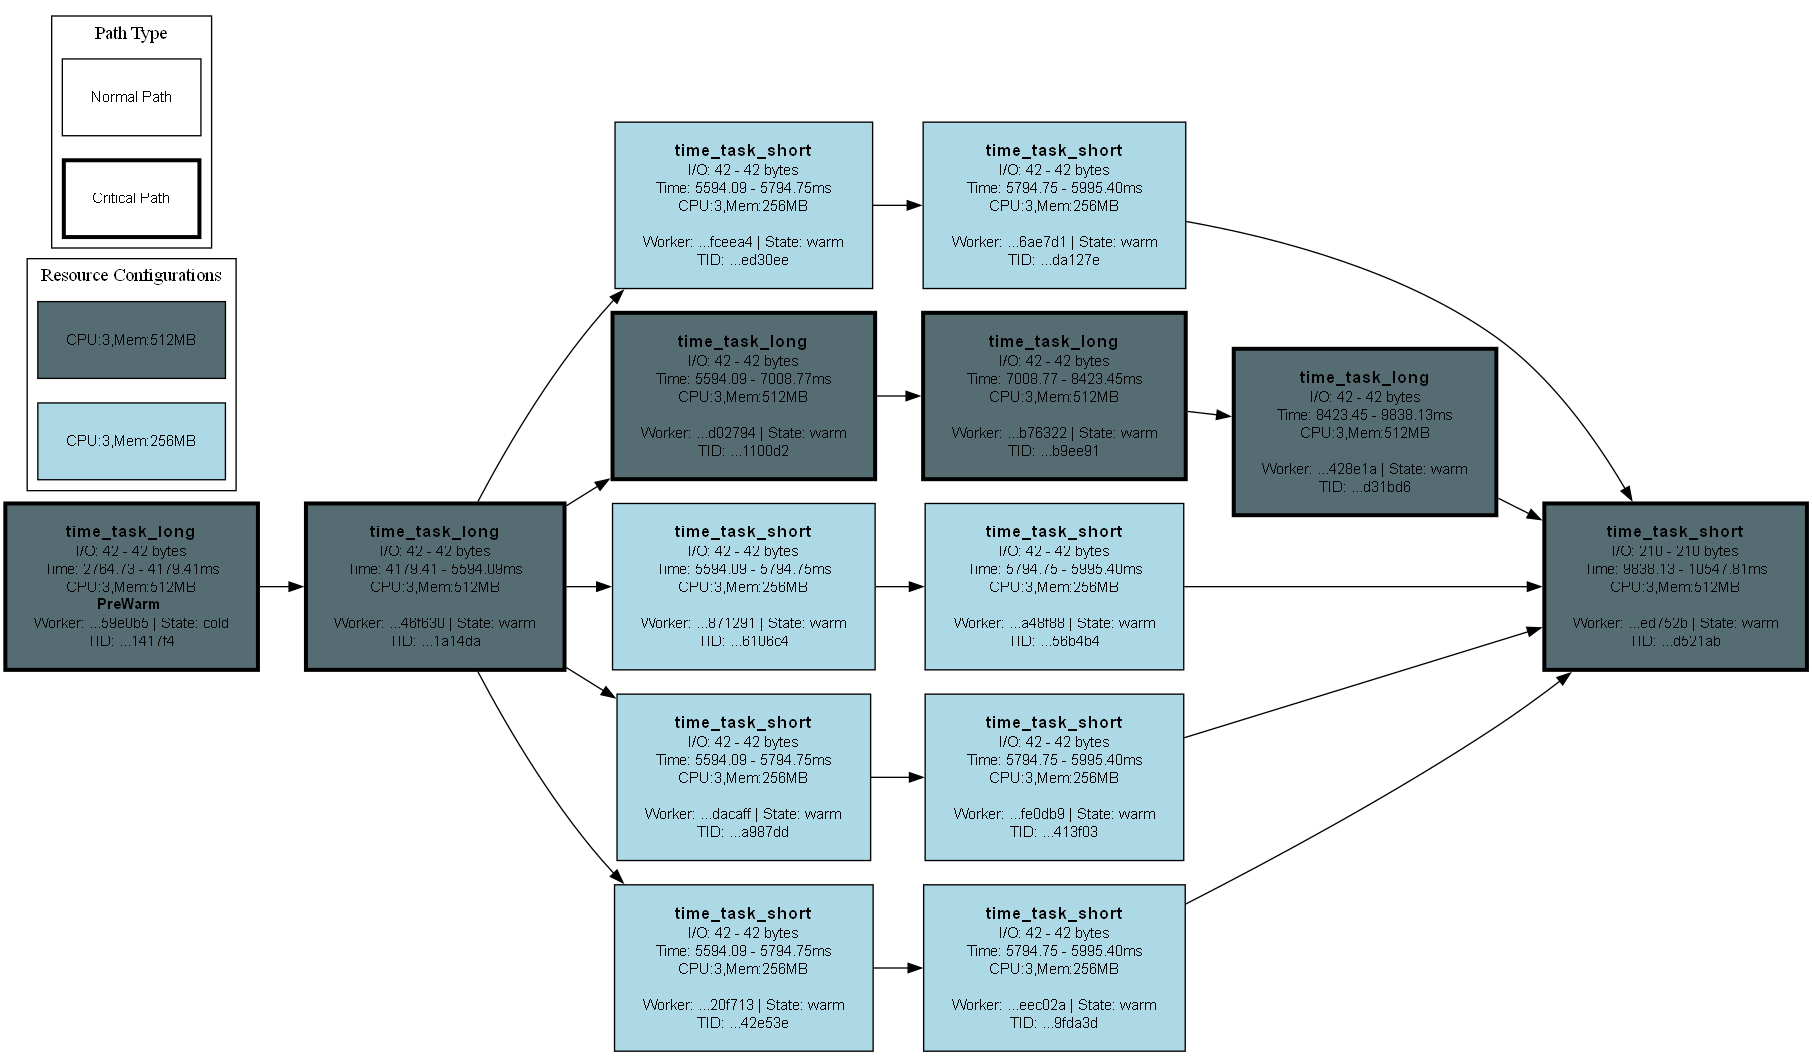
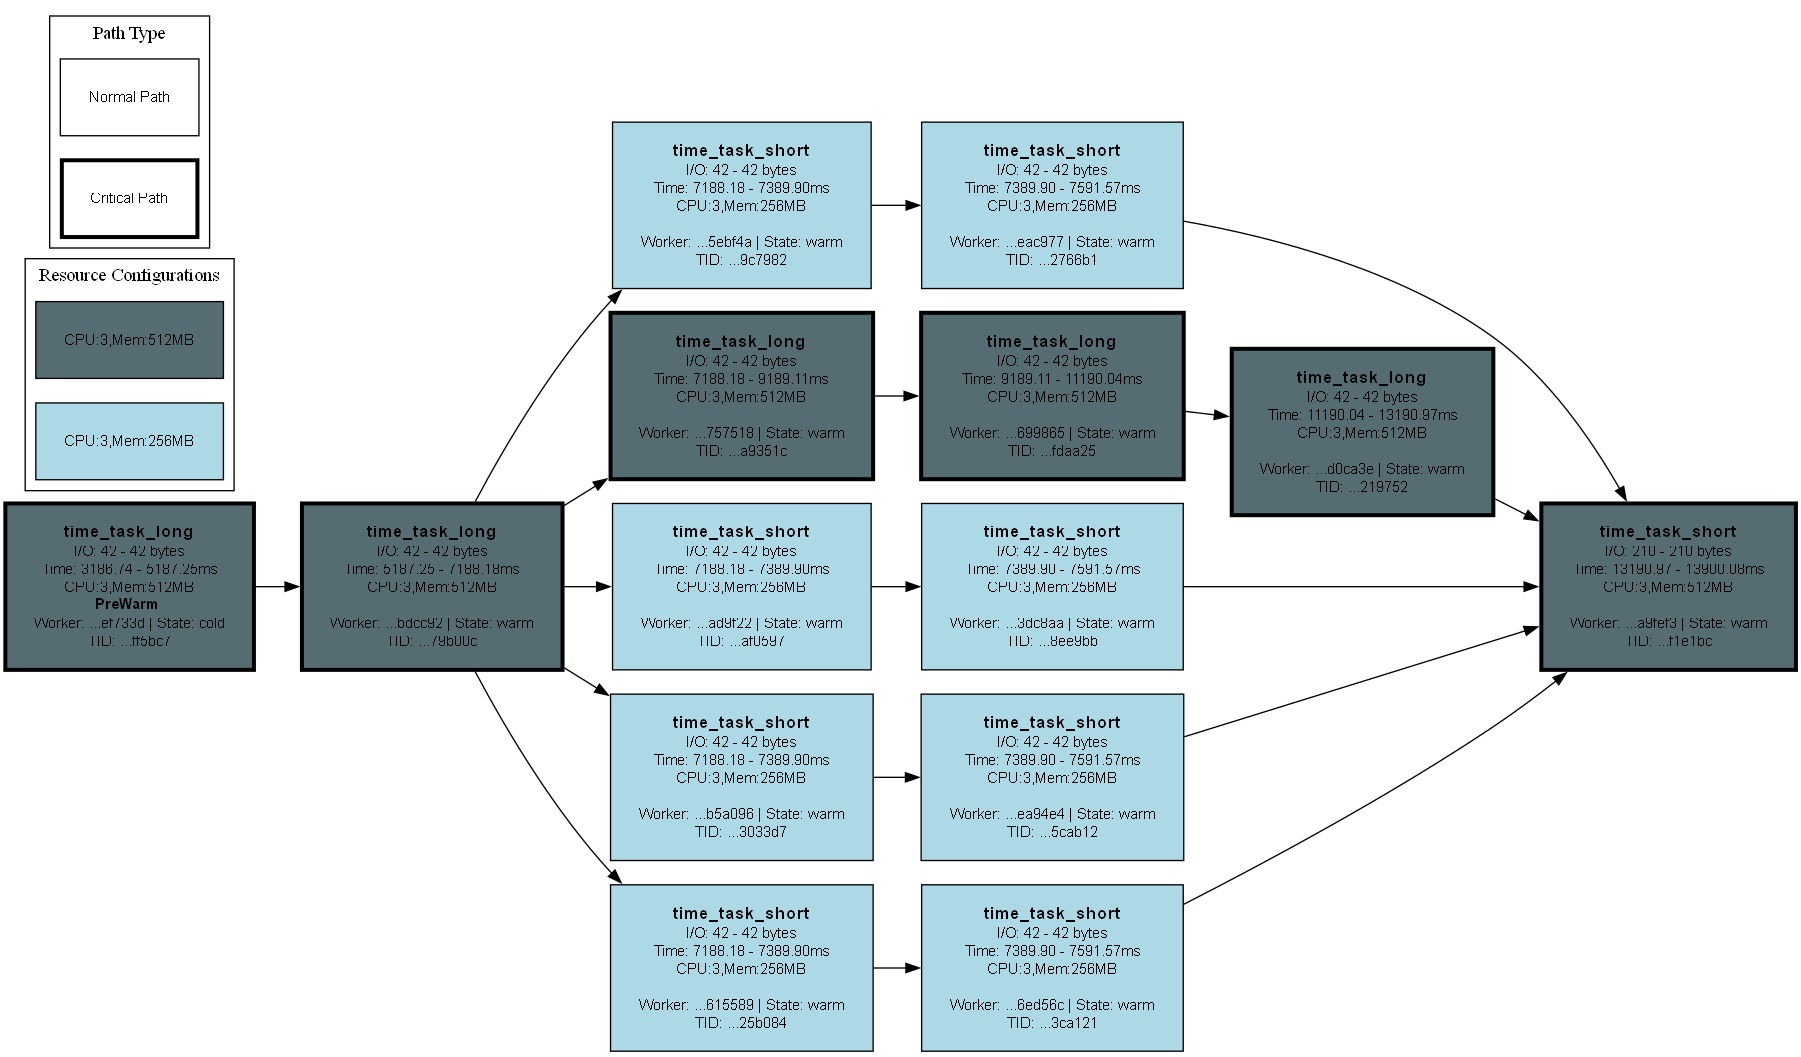
fix prewarm docker handler to launch new containers instead of waiting for containers with the wanted configuration

diff --git a/prewarm_containers.py b/prewarm_containers.py
@@ -1,0 +1,47 @@
+import base64
+import cloudpickle
+import requests
+from typing import List
+from dataclasses import dataclass
+
+# Define the TaskWorkerResourceConfiguration class to match the server's implementation
+@dataclass
+class TaskWorkerResourceConfiguration:
+    cpus: float
+    memory_mb: int
+    worker_id: str | None = None
+
+def send_prewarm_request():
+    # Server URL - adjust this if your server is running on a different address
+    server_url = "http://localhost:5000"
+    endpoint = f"{server_url}/warmup"
+    
+    # Create 3 container configurations with 3 CPUs and 512MB RAM each
+    resource_configs = [
+        TaskWorkerResourceConfiguration(cpus=3, memory_mb=512, worker_id=f"worker-{i+1}")
+        for i in range(3)
+    ]
+    
+    # Serialize the configurations
+    serialized_configs = base64.b64encode(cloudpickle.dumps(resource_configs)).decode('utf-8')
+    
+    # Prepare the request payload
+    payload = {
+        "resource_configurations": serialized_configs
+    }
+    
+    try:
+        # Send the POST request
+        response = requests.post(endpoint, json=payload)
+        
+        # Check the response
+        if response.status_code == 202:
+            print("Prewarm request accepted. Containers are being started in the background.")
+        else:
+            print(f"Error: {response.status_code} - {response.text}")
+            
+    except requests.exceptions.RequestException as e:
+        print(f"Failed to send prewarm request: {e}")
+
+if __name__ == "__main__":
+    send_prewarm_request()

diff --git a/src/planning/second_planner_algorithm.py b/src/planning/second_planner_algorithm.py
@@ -82,9 +82,9 @@ class SecondPlannerAlgorithm(AbstractDAGPlanner):
             resource_config = best_resource_config.clone()
             node.add_annotation(resource_config)
             
-            #!! for debugging pre-warm
-            resource_config.worker_id = uuid.uuid4().hex
-            continue #!! for debugging pre-warm
+            # #!! for debugging pre-warm
+            # resource_config.worker_id = uuid.uuid4().hex
+            # continue #!! for debugging pre-warm
             
             if len(node.upstream_nodes) == 0:
                 resource_config.worker_id = uuid.uuid4().hex
@@ -299,7 +299,7 @@ class SecondPlannerAlgorithm(AbstractDAGPlanner):
             if best_node is not None:
                 annotation = best_node.try_get_annotation(PreWarmOptimization)
                 if not annotation: annotation = best_node.add_annotation(PreWarmOptimization([]))
-                elif any([config.cpus == my_worker_config.cpus and config.memory_mb == my_worker_config.memory_mb for config in annotation.target_resource_configs]): continue # no need to tell a worker to preload the same config twice
+                # allow multiple pre-warms for the same worker config (only makes sense with local docker implementation. Lambda implementation)
                 
                 annotation.target_resource_configs.append(my_worker_config)
                 # recomputing node timings is required because after adding `PreWarm` annotation, other tasks "cold" starts may become "warm"

diff --git a/src/docker_workers_gateway/handler.py b/src/docker_workers_gateway/handler.py
@@ -58,7 +58,8 @@ def process_warmup_async(resource_configurations: list[TaskWorkerResourceConfigu
     Waits for a container with the requested resource configuration to be available and leaves it available for later re-use for {container_pool_executor.container_idle_timeout} seconds
     """
     for resource_configuration in resource_configurations:
-        container_id = container_pool.wait_for_container(cpus=resource_configuration.cpus, memory=resource_configuration.memory_mb)
+        print("Warming up resource configuration: ", resource_configuration)
+        container_id = container_pool._launch_container(cpus=resource_configuration.cpus, memory=resource_configuration.memory_mb)
         container_pool.release_container(container_id)
 
 @app.route('/warmup', methods=['POST'])
@@ -73,9 +74,6 @@ def handle_warmup():
         return jsonify({"error": "'resource_configurations' field is required"}), 400
     
     resource_configurations: list[TaskWorkerResourceConfiguration] = cloudpickle.loads(base64.b64decode(resource_config_key))
-    if resource_configurations is None: 
-        logger.error("'resource_configurations' field is required")
-        return jsonify({"error": "'resource_configurations' field is required"}), 400
 
     thread_pool.submit(process_warmup_async, resource_configurations)
     return "", 202

diff --git a/src/planning/abstract_dag_planner.py b/src/planning/abstract_dag_planner.py
@@ -27,7 +27,7 @@ class AbstractDAGPlanner(ABC, WorkerExecutionLogic):
     """
 
     MAX_FAN_OUT_SIZE_W_SAME_WORKER = 4
-    TIME_UNTIL_WORKER_GOES_COLD_S = 2
+    TIME_UNTIL_WORKER_GOES_COLD_S = 5
 
     @dataclass
     class Config(ABC):
@@ -106,7 +106,7 @@ class AbstractDAGPlanner(ABC, WorkerExecutionLogic):
         else:
             self._store_plan_image(_dag, plan_result.nodes_info, plan_result.critical_path_node_ids)
             self.validate_plan(_dag.root_nodes)
-        exit() # !!! FOR QUICK TESTING ONLY. REMOVE LATER !!
+        # exit() # !!! FOR QUICK TESTING ONLY. REMOVE LATER !!
         return plan_result
 
     @abstractmethod

diff --git a/src/workers/docker_worker.py b/src/workers/docker_worker.py
@@ -123,7 +123,7 @@ class DockerWorker(Worker):
                     }),
                     headers={"Content-Type": "application/json"}
                 ) as response:
-                    if response.status != 200:
+                    if response.status != 202:
                         logger.error(f"Warmup request failed with status {response.status}")
                         response_text = await response.text()
                         logger.error(f"Response: {response_text}")

diff --git a/_examples/original/_run_experiments.py b/_examples/original/_run_experiments.py
@@ -15,7 +15,7 @@ WORKFLOWS_PATHS = [
 ITERATIONS = 3
 ALGORITHMS = ['simple', 'first', 'second']
 
-TIME_UNTIL_WORKER_GOES_COLD_S = 2
+TIME_UNTIL_WORKER_GOES_COLD_S = 5
 
 def run_experiment(script_path: str, algorithm: str, iteration: str) -> None:
     """Run the specified Python script with the given algorithm parameter."""

diff --git a/src/docker_workers_gateway/container_pool_executor.py b/src/docker_workers_gateway/container_pool_executor.py
@@ -12,7 +12,7 @@ from src.utils.logger import create_logger
 logger = create_logger(__name__)
 
 ALLOW_CONTAINER_REUSAGE = True
-TIME_UNTIL_WORKER_GOES_COLD_S = 2
+TIME_UNTIL_WORKER_GOES_COLD_S = 5
 
 @dataclass
 class Container:

diff --git a/TODO.md b/TODO.md
@@ -1,7 +1,7 @@
-[TODO] PREWARM
-    - Manipulate workflow to force this annotation to be used, then see it in action (ONLY MAKES SENSE ON 2ND planner)
-        [CLEANUP] 2ND planner is always assigning NEW WORKER ID on downstream tasks
-        Run and check if prewarm happened successfuly (look at worker startup times of the tasks (first algo vs second algo))
+[NEW_ISSUES_FOUND]
+- In the start, planners assign worker ids randomly/first upstream worker id
+    this is not optimal: for example, if task is on critical path it should have priority to use the same worker id as the CP upstream task
+- worker_active_periods are not being calculated correctly (circular issue where I need to these times to know warm and cold starts but I only know them if I calculate worker times). Result: worker_active_periods assumes NO worker startup time
 
 [TODO] TASKDUP
     - make the planners assign this annotation (see criterion below)
